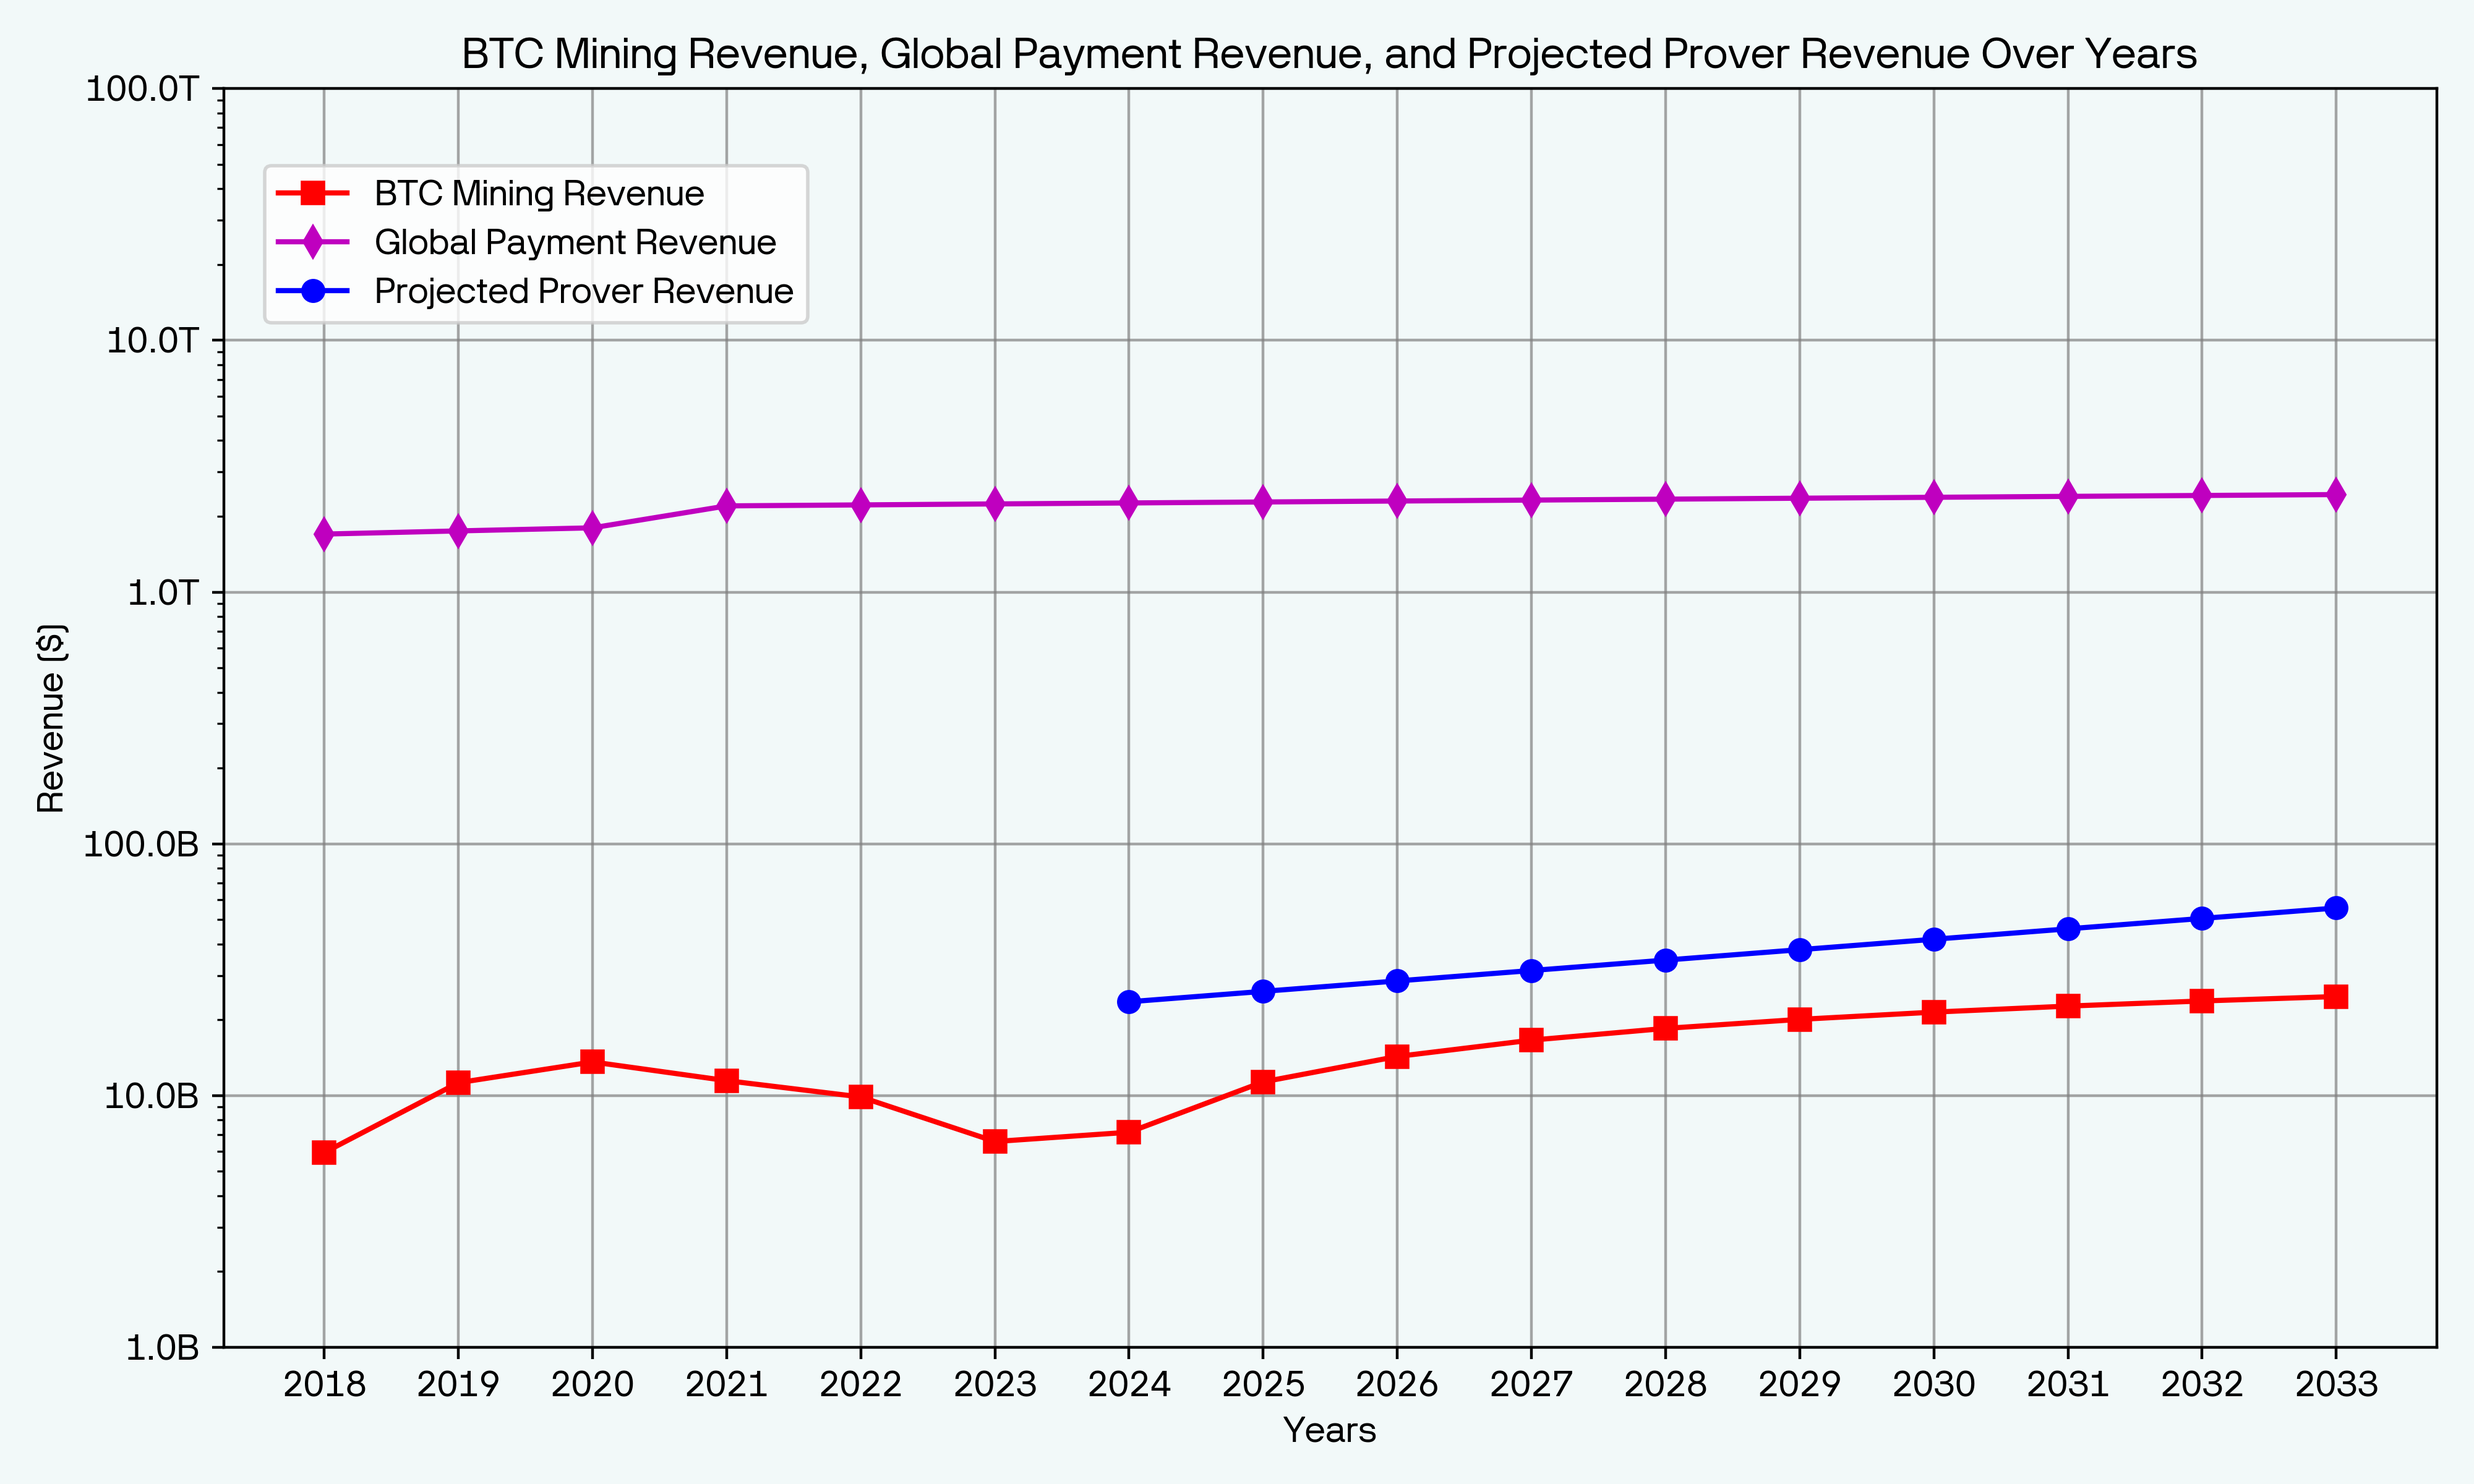
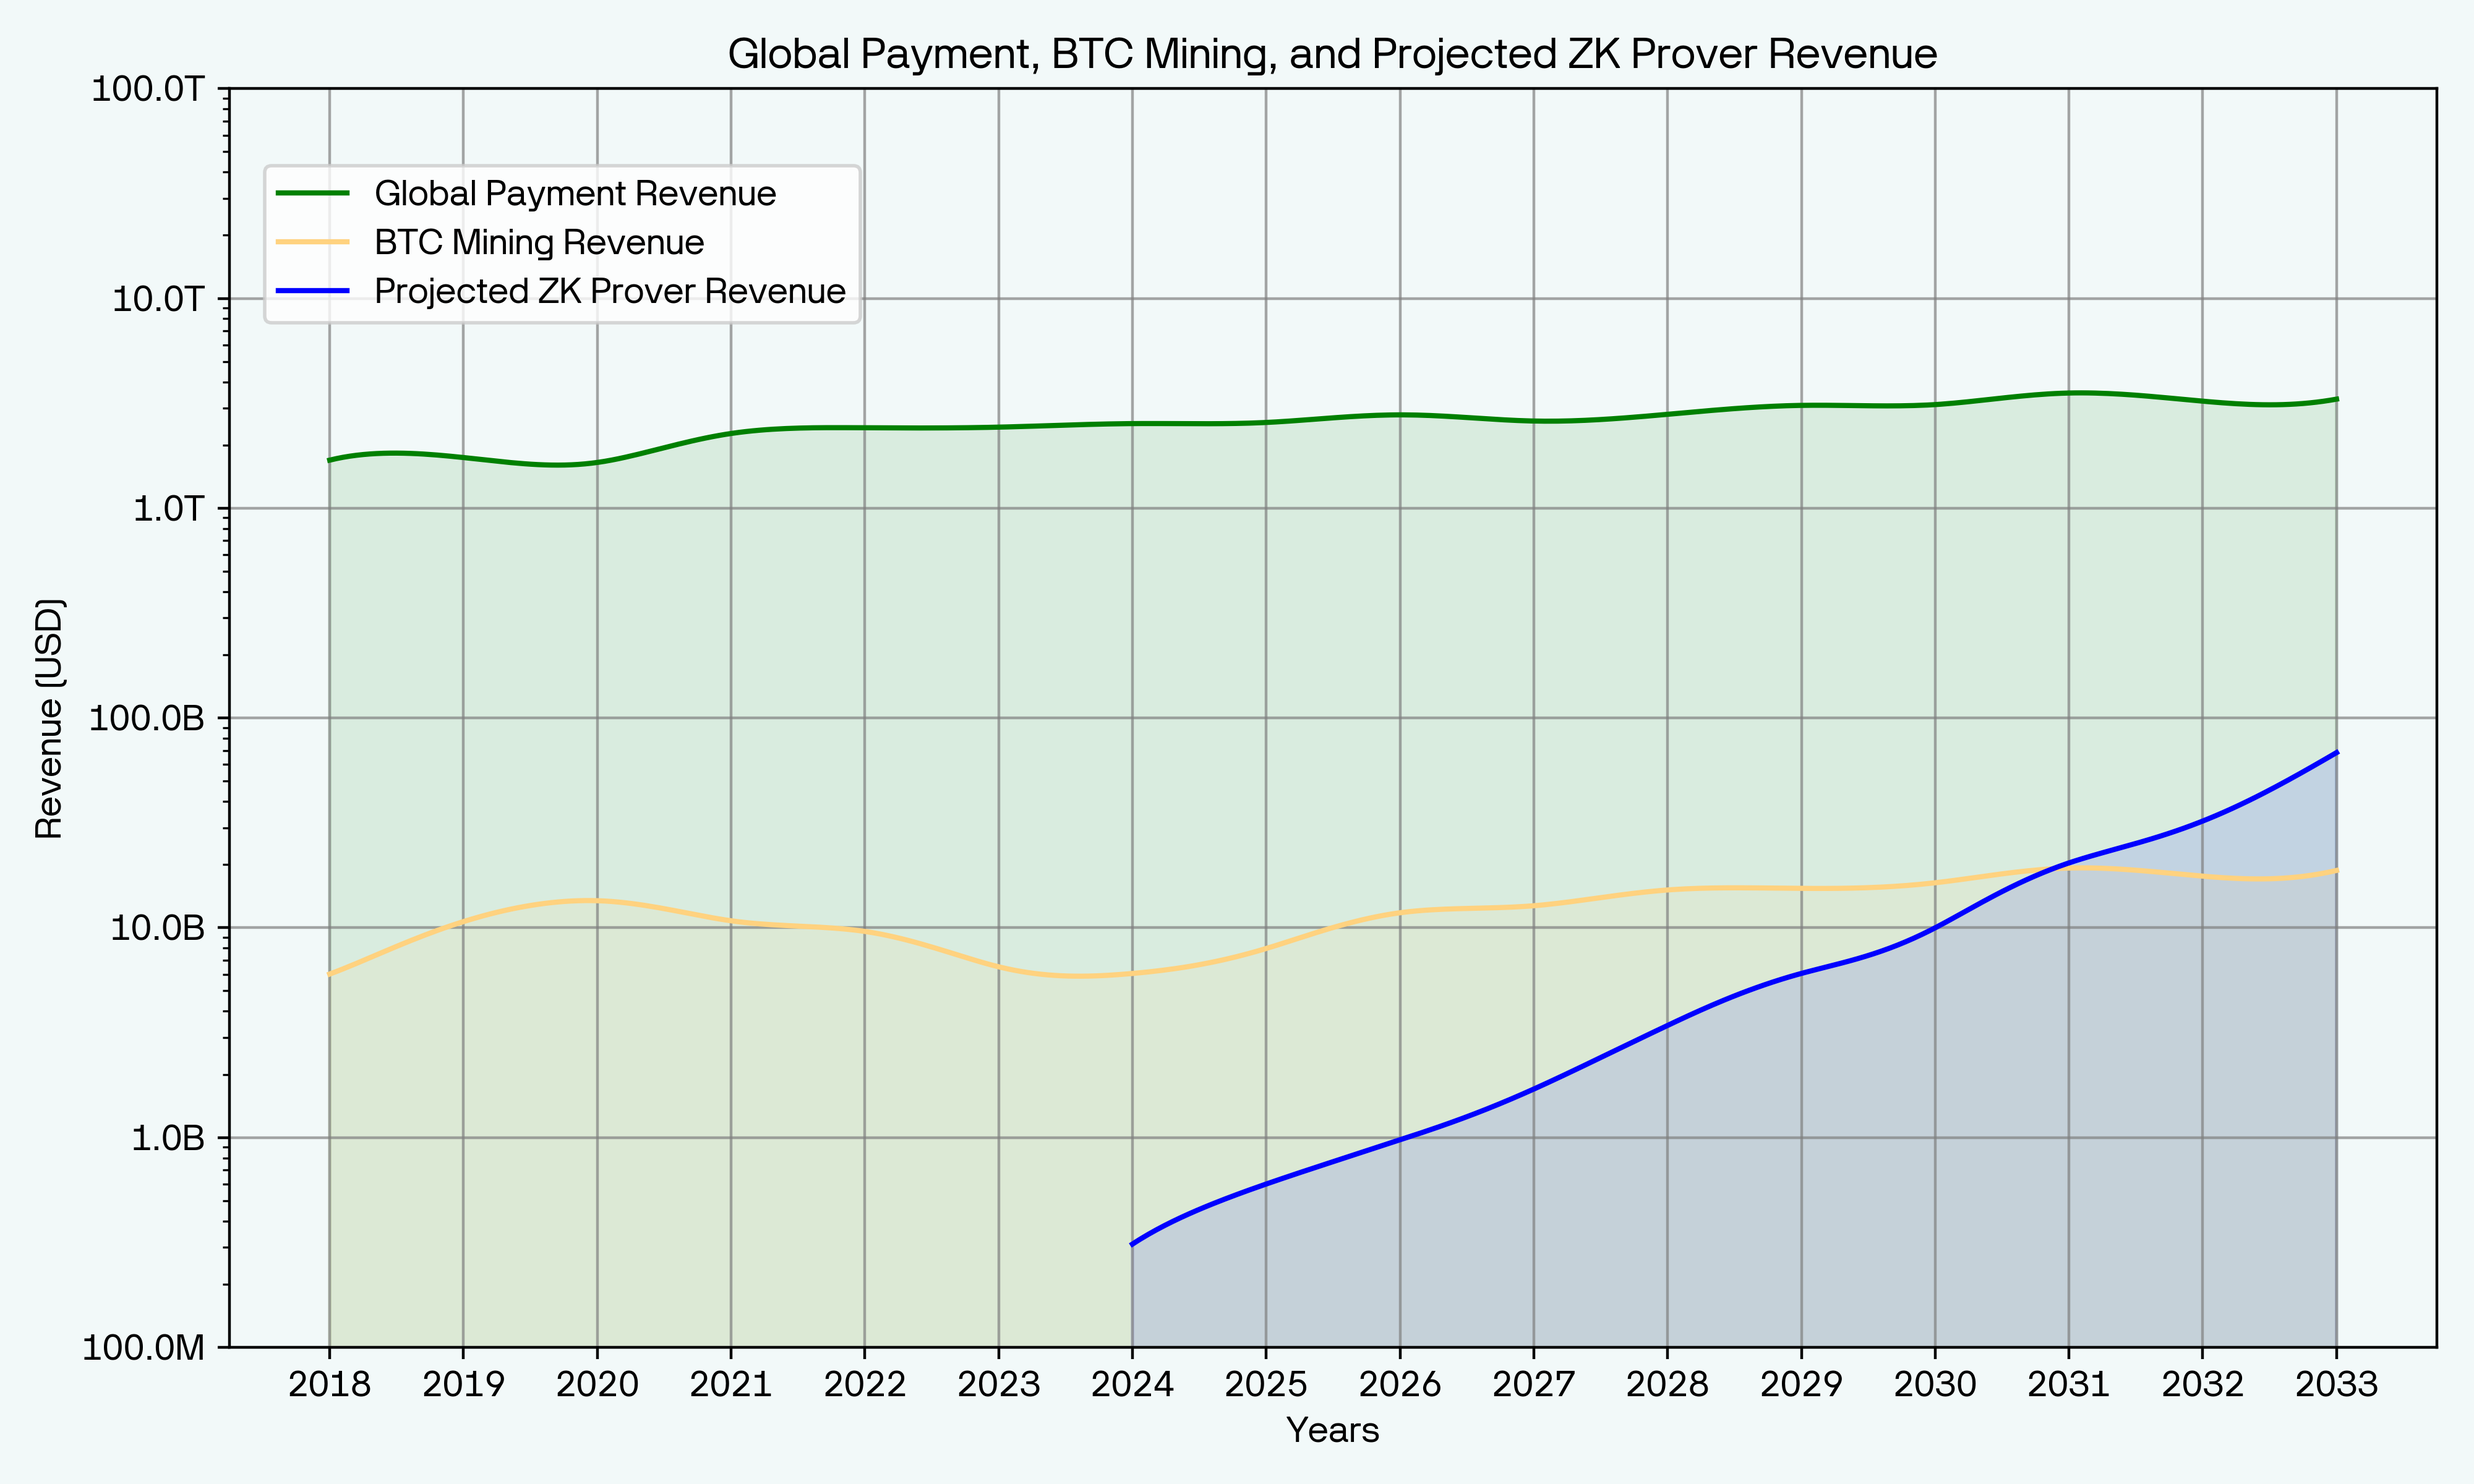
prover revenues

diff --git a/prover_revenues.py b/prover_revenues.py
@@ -1,8 +1,8 @@
 import matplotlib.pyplot as plt
 from matplotlib.ticker import FuncFormatter
 import numpy as np
+from scipy.interpolate import make_interp_spline
 
-# Function to format the y-axis labels
 def human_format(num, pos=None):
     if num >= 1e12:
         return f'{num*1e-12:.1f}T'
@@ -15,10 +15,29 @@ def human_format(num, pos=None):
 
 # Parameters
 average_transaction_value = 100  # in dollars
-annual_transactions = 100_000_000_000  # 100 billion transactions
-prover_charge_percentage = 0.001  # 0.1%
-annual_growth_rate = 0.1  # 50% growth per year
+annual_transactions = 8_000_000  # 100 billion transactions
+prover_charge_percentage = 0.002  # 0.1%
+annual_growth_rate = 0.8  # 10% growth per year
 years = 10  # Project over 10 years
+
+# Apply hockey stick growth curve to annual growth rate
+hockey_stick_growth_rate = [annual_growth_rate] * years
+hockey_stick_growth_rate[5:] = [annual_growth_rate * 2] * (years - 5)
+
+# Calculate projected revenues and transaction volumes for each year
+projected_revenues = []
+transaction_volumes = []
+revenue = average_transaction_value * annual_transactions * prover_charge_percentage
+transactions = annual_transactions
+for year in range(years):
+    if year != 0:
+        revenue *= (1 + hockey_stick_growth_rate[year])
+        transactions *= (1 + hockey_stick_growth_rate[year])
+    projected_revenues.append(revenue)
+    transaction_volumes.append(transactions)
+
+# Apply exponential growth to projected prover revenues
+projected_revenues = [revenue * (1 + hockey_stick_growth_rate[year]) ** year for year, revenue in enumerate(projected_revenues)]
 
 # BTC Miners
 mining_years = [2018, 2019, 2020, 2021, 2022, 2023]
@@ -26,7 +45,7 @@ mining_revenue = [5.937e+09, 11.248e+09, 13.5985e+09, 11.4617e+09, 9.8725e+09, 6
 
 # Apply logarithmic growth to BTC mining revenue
 for i in range(1, years + 1):
-    mining_revenue.append(mining_revenue[3] * np.log(i + 1) * 0.9)
+    mining_revenue.append(mining_revenue[3] * np.log(i + 1) * 0.7)
 
 # Global payment revenue
 payment_years = [2018, 2019, 2020, 2021, 2022, 2023]
@@ -34,7 +53,7 @@ payment_revenue = [1.7e+12, 1.75e+12, 1.8e+12, 2.2e+12, 2.22e+12, 2.24e+12]
 
 # Apply linear growth to global payment revenue
 for i in range(1, years + 1):
-    payment_revenue.append(payment_revenue[-1] + 0.02e+12)
+    payment_revenue.append(payment_revenue[-1] + 0.12e+12)
 
 # Calculate projected revenues and transaction volumes for each year
 projected_revenues = []
@@ -55,6 +74,24 @@ projected_revenues = [revenue * (1 + annual_growth_rate) ** i for i in range(yea
 start_year = max(mining_years + payment_years) + 1
 projected_years = list(range(start_year, start_year + years))
 
+# Add noise to the data
+noise_level = 0.05  # 5% noise
+mining_revenue = [value * (1 + np.random.normal(0, noise_level)) for value in mining_revenue]
+payment_revenue = [value * (1 + np.random.normal(0, noise_level)) for value in payment_revenue]
+projected_revenues = [value * (1 + np.random.normal(0, noise_level)) for value in projected_revenues]
+
+# Interpolation for smooth curves
+def smooth_curve(x, y):
+    x_new = np.linspace(min(x), max(x), 300)
+    spl = make_interp_spline(x, y, k=3)
+    y_smooth = spl(x_new)
+    return x_new, y_smooth
+
+# Smooth the data
+mining_years_smooth, mining_revenue_smooth = smooth_curve(mining_years + list(range(2024, 2024 + years)), mining_revenue)
+payment_years_smooth, payment_revenue_smooth = smooth_curve(payment_years + list(range(2024, 2024 + years)), payment_revenue)
+projected_years_smooth, projected_revenues_smooth = smooth_curve(projected_years, projected_revenues)
+
 # Set the font family to Tahoma, Arial, and Georgia
 plt.rcParams['font.family'] = ['TEG']
 
@@ -68,25 +105,29 @@ ax1.set_facecolor('#F2F9F9')
 # Set log scale for y-axis
 ax1.set_yscale('log')
 
-# Plot BTC mining revenue
-ax1.plot(mining_years + list(range(2024, 2024 + years)), mining_revenue, marker='s', color='r', label='BTC Mining Revenue')
+# Plot global payment revenue second
+ax1.plot(payment_years_smooth, payment_revenue_smooth, color='g', label='Global Payment Revenue')
+ax1.fill_between(payment_years_smooth, payment_revenue_smooth, color='g', alpha=0.1)
 
-# Plot global payment revenue
-ax1.plot(payment_years + list(range(2024, 2024 + years)), payment_revenue, marker='d', color='m', label='Global Payment Revenue')
+# Plot BTC mining revenue last (so it appears at the top)
+ax1.plot(mining_years_smooth, mining_revenue_smooth, color='#FFD27F', label='BTC Mining Revenue')
+ax1.fill_between(mining_years_smooth, mining_revenue_smooth, color='#FFD27F', alpha=0.1)
 
-# Plot projected prover revenues
-ax1.plot(projected_years, projected_revenues, marker='o', color='b', label='Projected Prover Revenue')
+# Plot projected prover revenues first (so it appears at the bottom)
+ax1.plot(projected_years_smooth, projected_revenues_smooth, color='b', label='Projected ZK Prover Revenue')
+ax1.fill_between(projected_years_smooth, projected_revenues_smooth, color='b', alpha=0.1)
+
 
 # Titles and labels
 ax1.set_xlabel('Years')
-ax1.set_ylabel('Revenue ($)')
+ax1.set_ylabel('Revenue (USD)')
 ax1.yaxis.set_major_formatter(FuncFormatter(human_format))
-plt.title('BTC Mining Revenue, Global Payment Revenue, and Projected Prover Revenue Over Years')
+plt.title('Global Payment, BTC Mining, and Projected ZK Prover Revenue')
 ax1.set_xticks(range(min(mining_years), max(projected_years) + 1))
-ax1.grid(True, axis='both', color='gray', alpha=0.7)
+ax1.grid(True, color='gray', alpha=0.7)
 
 # Increase y-axis limit to make space for the legend
-ax1.set_ylim(1e9, 1e14)
+ax1.set_ylim(1e8, 1e14)
 
 # Show legends
 fig.tight_layout()
